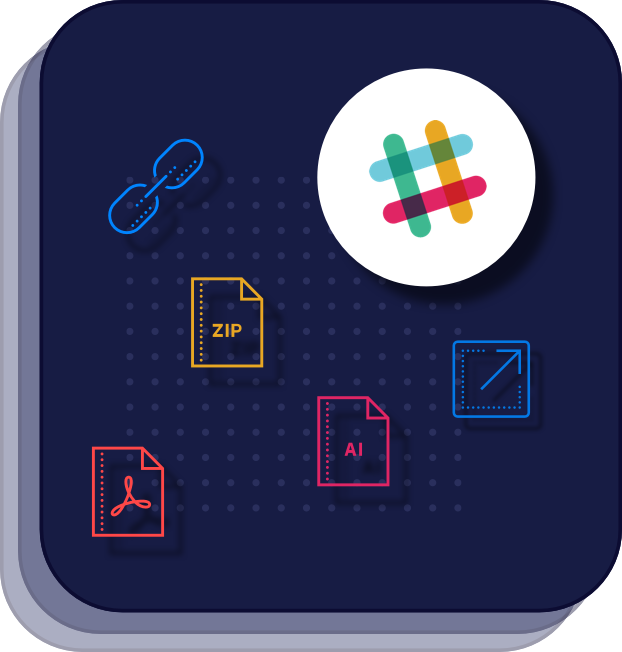
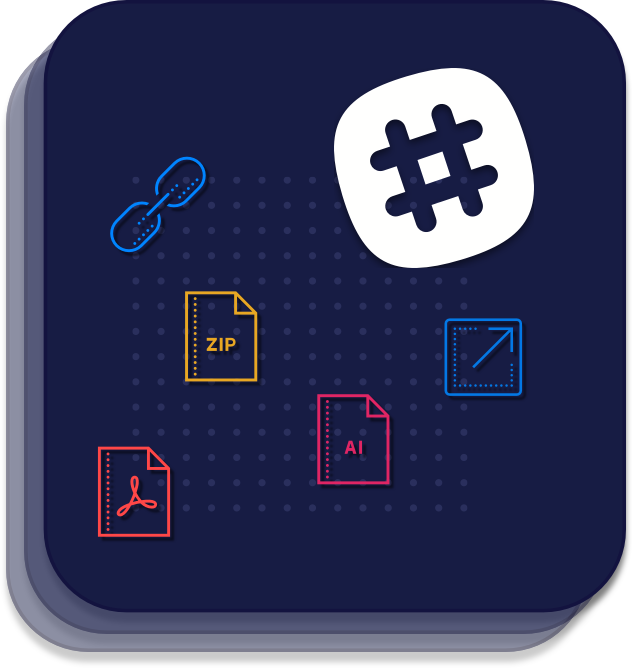
more fixes

diff --git a/css/stylesheet.css b/css/stylesheet.css
@@ -88,8 +88,8 @@ img {
 }
 
 .f1-icon {
-	background-size: 311px 326px;
-	max-height: 326px;	
+	background-size: 316px 334px;
+	max-height: 334px;	
 }
 
 .f2-icon {
